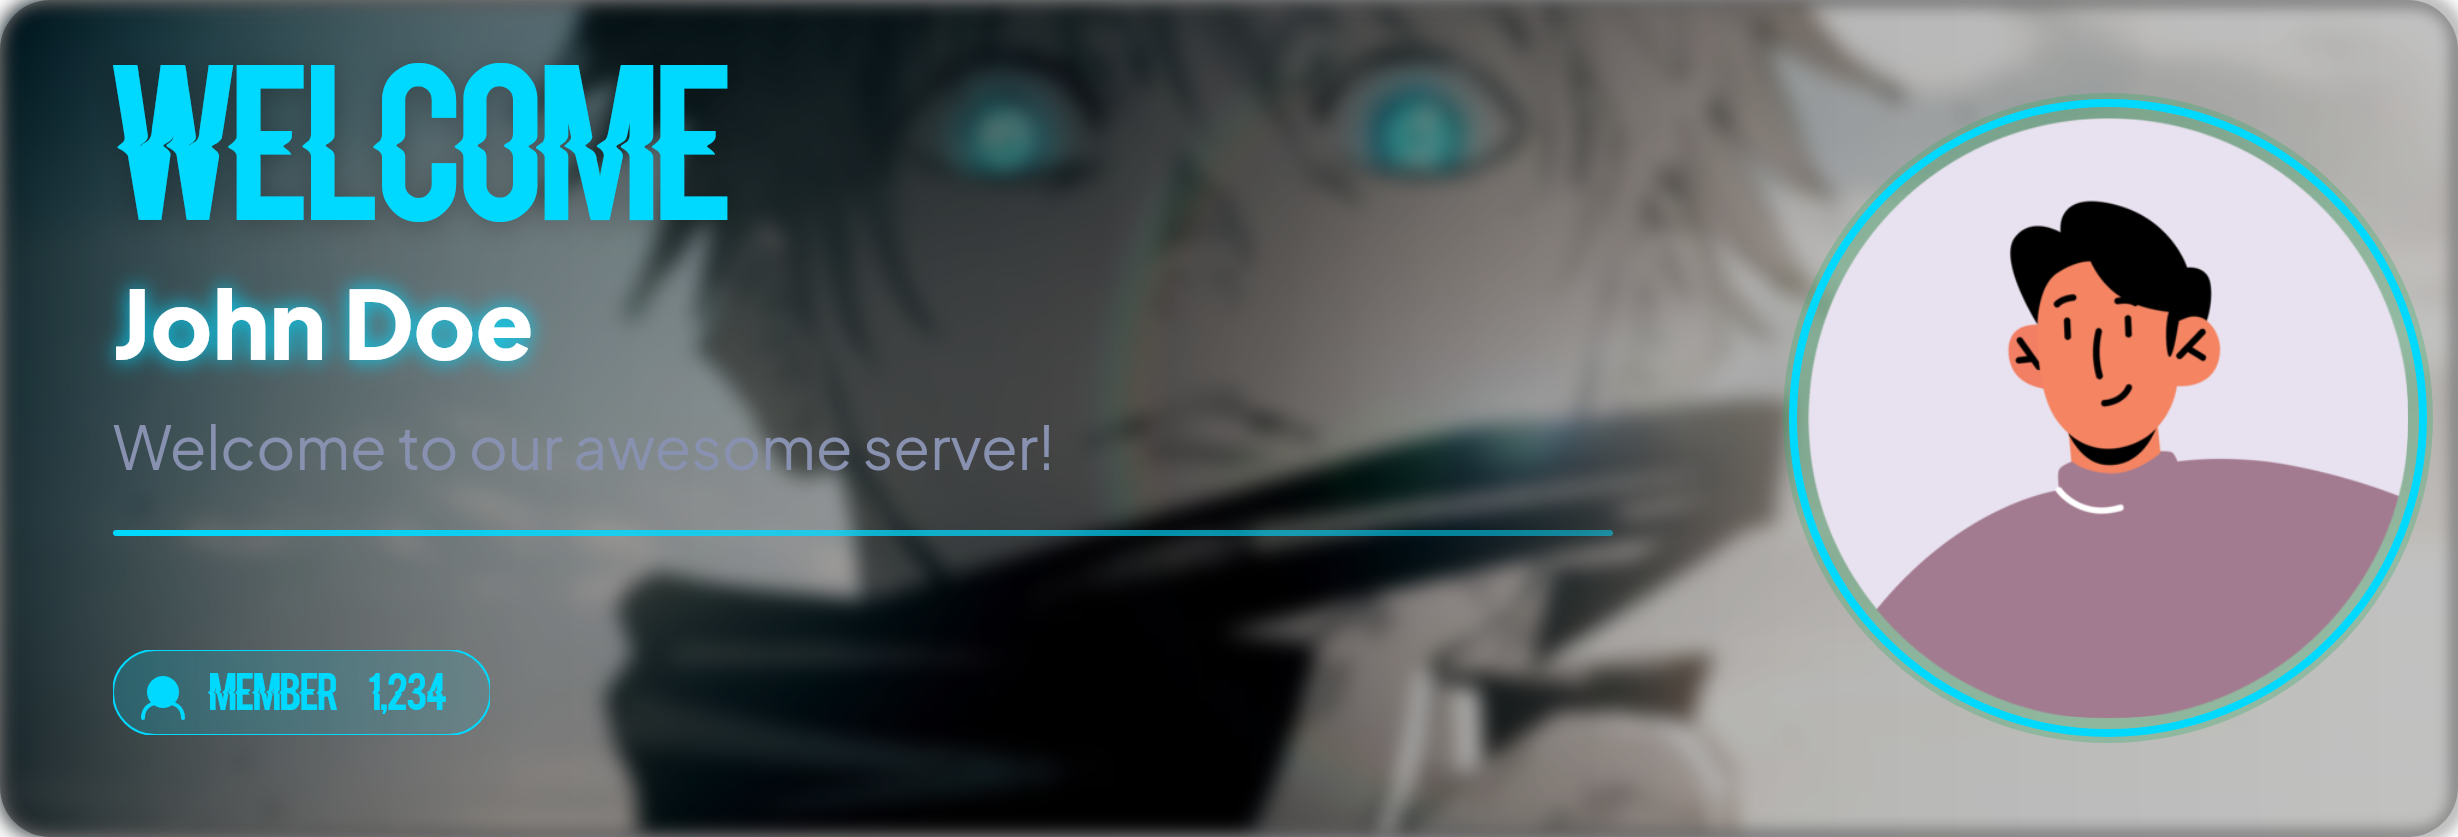
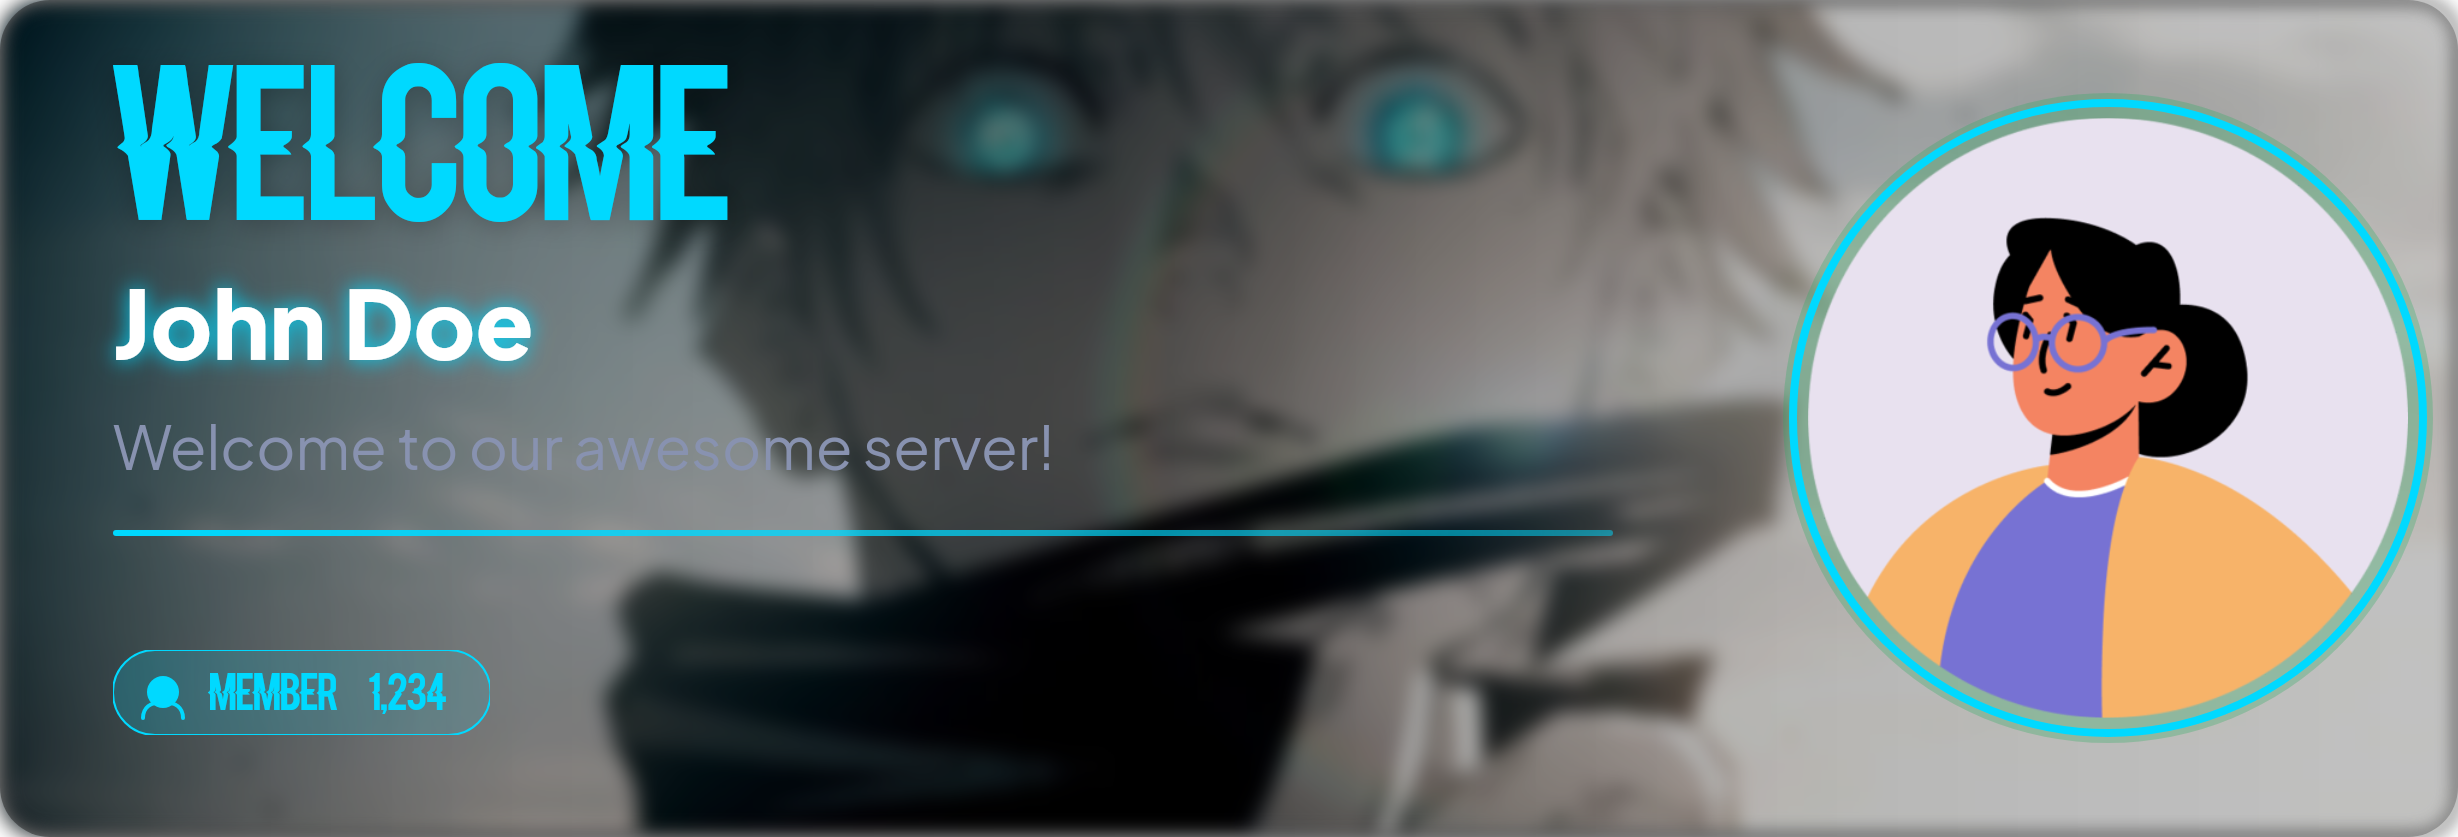
UP!

Changed region(s): [[0.7421, 0.2174, 0.9894, 0.8698]]

diff --git a/tests/index.js b/tests/index.js
@@ -7,32 +7,27 @@ const fs = require('node:fs')
 
 // Common values
 const thumbnailImage = 'https://i.scdn.co/image/ab67616d0000b27359ae8cf65d498afdd5585634';
-const backgroundColor = '#2C2F33';
-const progressColor = '#5865F2';
-const progressBarColor = '#2C2F33';
 const startTime = "00:00";
 const endTime = "05:40";
 const progress = 0;
-const nameColor = '#5865F2';
-const authorColor = '#B9BBBE';
 const title = 'Margaret (feat. leachers)';
 const author = 'Lana Del Rey';
 
 // Test Classic
 const classic = await Classic({
     thumbnailImage,
-    backgroundColor,
+    
     backgroundImage: thumbnailImage,
     imageDarkness: 60,
     name: title,
-    nameColor,
+    
     author,
-    authorColor,
+    
     progress,
     startTime,
     endTime,
-    progressColor,
-    progressBarColor,
+    
+    
 })
     fs.writeFileSync('assets/Classic.png', classic);
     console.log('Classic test done.');
@@ -42,18 +37,18 @@ const classic = await Classic({
 // Test ClassicPro
 const classic_pro = await ClassicPro({
     thumbnailImage,
-    backgroundColor,
+    
     backgroundImage: thumbnailImage,
     imageDarkness: 60,
     name: title,
-    nameColor,
+    
     author,
-    authorColor,
+    
     progress,
     startTime,
     endTime,
-    progressColor,
-    progressBarColor,
+    
+    
 })
     fs.writeFileSync('assets/ClassicPro.png', classic_pro);
     console.log('ClassicPro test done.');
@@ -63,16 +58,16 @@ const classic_pro = await ClassicPro({
 // Test Dynamic
 const dynamic = await Dynamic({
     thumbnailImage,
-    backgroundColor,
+    
     backgroundImage: thumbnailImage,
     imageDarkness: 60,
     name: title,
-    nameColor,
+    
     author,
-    authorColor,
+    
     progress,
-    progressColor,
-    progressBarColor,
+    
+    
 })
     fs.writeFileSync('assets/Dynamic.png', dynamic);
     console.log('Dynamic test done.');
@@ -82,13 +77,13 @@ const dynamic = await Dynamic({
 // Test Mini
 const mini = await Mini({
     thumbnailImage,
-    backgroundColor,
+    
     backgroundImage: thumbnailImage,
     imageDarkness: 60,
-    menuColor: progressColor,
+    menuColor: 
     progress,
-    progressColor,
-    progressBarColor,
+    
+    
     paused: false,
 })
     fs.writeFileSync('assets/Mini.png', mini);
@@ -101,7 +96,7 @@ const upcoming = await Upcoming({
     title,
     author,
     thumbnailImage,
-    backgroundColor,
+    
     backgroundImage: thumbnailImage,
     imageDarkness: 60,
 })
@@ -125,7 +120,7 @@ const queue_list = await QueueList({
         { title: 'Song 10', author: 'Artist 3', thumbnailImage },
     ],
     title: 'Queue List',
-    backgroundColor,
+    
     backgroundImage: thumbnailImage,
     imageDarkness: 60,
 })
@@ -139,7 +134,7 @@ const addedtoqueue = await AddedToQueue({
     title,
     author,
     thumbnailImage,
-    backgroundColor,
+    
     backgroundImage: thumbnailImage,
     imageDarkness: 60,
 })
@@ -183,7 +178,7 @@ const lyrics = await Lyrics({
     title,
     author,
     thumbnailImage,
-    backgroundColor,
+    
     backgroundImage: thumbnailImage,
     imageDarkness: 60,
     lyrics: `This is a simple song, gonna write it for a friend

diff --git a/readme.md b/readme.md
@@ -123,7 +123,7 @@ SylphaCard is the #1 canvas library to create music cards with awesome themes.
 })();
 ```
 ---
-![dynamic](https://raw.githubusercontent.com/SatzzDev/sylpacard/main/assets/Mini.png)
+![dynamic](https://raw.githubusercontent.com/SatzzDev/sylpacard/main/assets/Dynamic.png)
 ---
 
 ## Mini
@@ -148,7 +148,7 @@ SylphaCard is the #1 canvas library to create music cards with awesome themes.
 })();
 ```
 ---
-![mini](https://raw.githubusercontent.com/SatzzDev/sylpacard/main/assets/MIni.png)
+![mini](https://raw.githubusercontent.com/SatzzDev/sylpacard/main/assets/Mini.png)
 ---
 
 ## Upcoming
@@ -324,4 +324,59 @@ When you know, you know`,
 ```
 ---
 ![lyrics](https://raw.githubusercontent.com/SatzzDev/sylpacard/main/assets/Lyrics.png)
+---
+
+## Greeting
+
+```js
+(async () => {
+    const { Greeting } = require('sylphacard');
+    const fs = require('fs');
+
+    const greeting = await Greeting({
+        type: "welcome",
+        username: "John Doe",
+        message: "Welcome to our awesome server!",
+        memberCount: "1,234",
+        avatarImage: "https://avatar.iran.liara.run/public",
+        backgroundImage: "https://i.pinimg.com/1200x/fe/ae/ae/feaeae20c78a15c0ff3c1b0e5ce36148.jpg",
+        backgroundColor: "#2ecc71",
+        primaryColor: "#27ae60",
+        textColor: "#FFFFFF",
+        imageDarkness: 40
+    });
+
+    fs.writeFileSync('greeting.png', greeting);
+})();
+```
+---
+![greeting](https://raw.githubusercontent.com/SatzzDev/sylpacard/main/assets/Greeting.png)
+---
+
+## GreetingV2
+
+```js
+(async () => {
+    const { GreetingV2 } = require('sylphacard');
+    const fs = require('fs');
+
+    const greetingv2 = await GreetingV2({
+        type: "welcome",
+        username: "John Doe",
+        message: "Welcome to our awesome server!",
+        memberCount: "1,234",
+        joinedAt: "Jan 15, 2024",
+        avatarImage: "https://avatar.iran.liara.run/public",
+        backgroundImage: "https://i.pinimg.com/1200x/fe/ae/ae/feaeae20c78a15c0ff3c1b0e5ce36148.jpg",
+        backgroundColor: "#2ecc71",
+        textColor: "#FFFFFF",
+        accentColor: "#00d9ff",
+        imageDarkness: 40
+    });
+
+    fs.writeFileSync('greetingv2.png', greetingv2);
+})();
+```
+---
+![greetingv2](https://raw.githubusercontent.com/SatzzDev/sylpacard/main/assets/GreetingV2.png)
 ---
